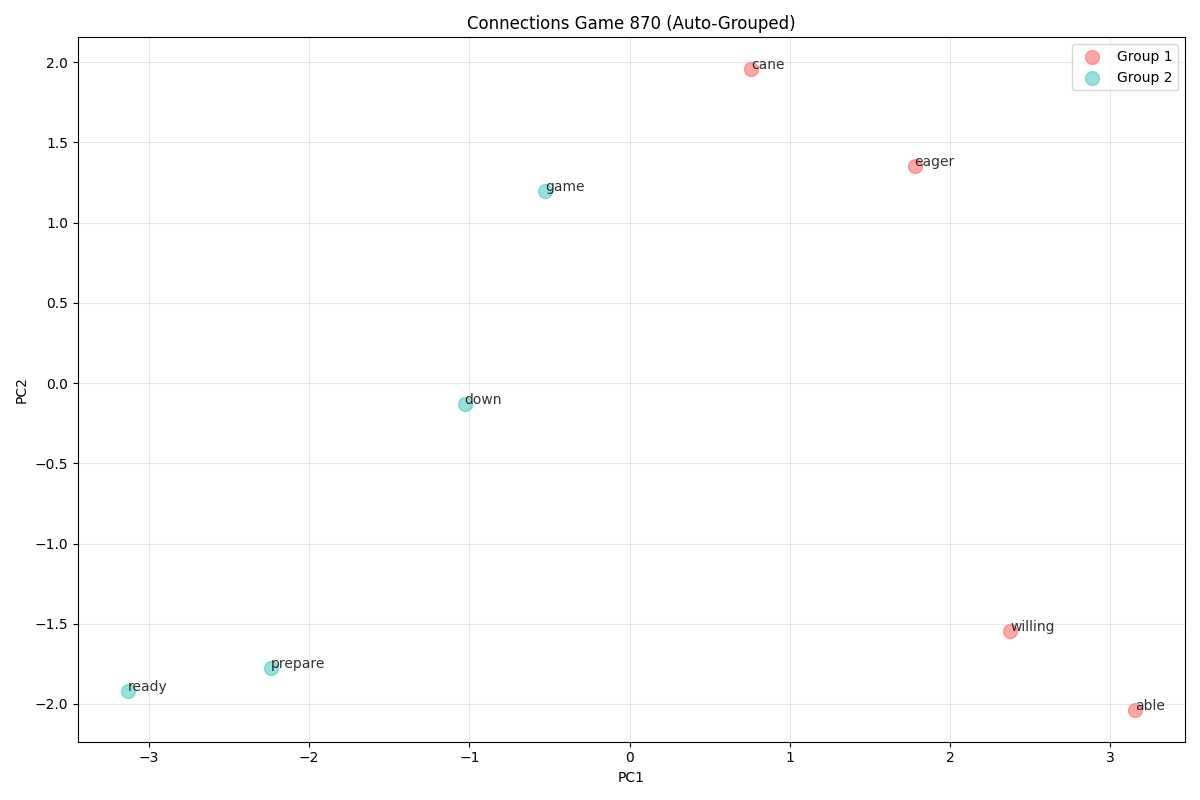
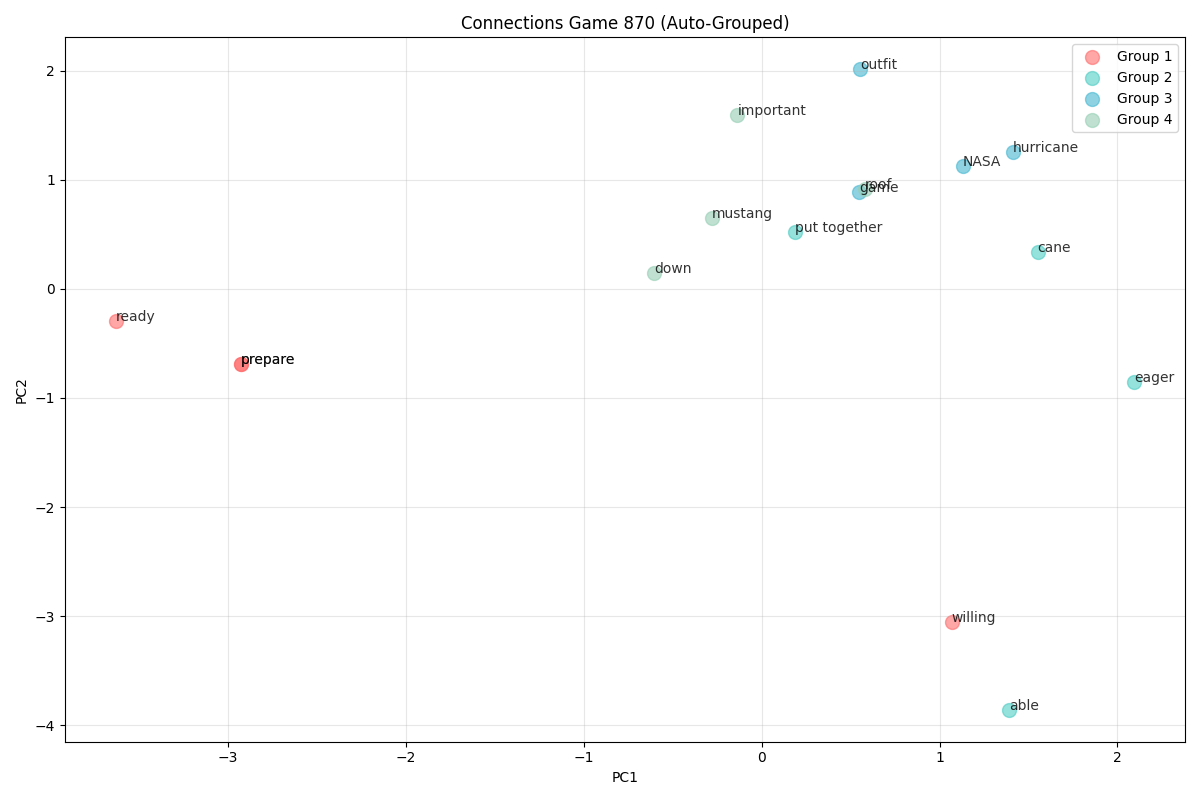
now have example

diff --git a/baselines/deepwalk.py b/baselines/deepwalk.py
@@ -121,23 +121,25 @@ def train_node2vec(
     return embedding, word2idx, idx2word, idx2embedding, model
 
 
-def plot_embeddings(embedding, words, word2idx, idx2word, title="Word Embeddings", groups=None):
+# def plot_embeddings(embedding, words, word2idx, idx2word, title="Word Embeddings", groups=None):
+def plot_embeddings(embedding, indices, valid_words, title="Word Embeddings", groups=None):
     """Plot word embeddings in 2D using PCA."""
     # Filter valid words
-    print("words:")
-    print(words)
+    # print("words:")
+    # print(words)
     # TODO remove
     # normalise words to get more matches
-    for i, word in enumerate(words):
-        words[i] = word.lower()
-    indices = [word2idx[w] for w in words if w in word2idx]
-    valid_words = [w for w in words if w in word2idx]
-    print("valid_words:")
-    print(valid_words)
+    # for i, word in enumerate(words):
+    #     words[i] = word.lower()
 
-    if not valid_words:
-        print("No valid words found!")
-        return
+    # indices = [word2idx[w] for w in words if w in word2idx]
+    # valid_words = [w for w in words if w in word2idx]
+    # print("valid_words:")
+    # print(valid_words)
+
+    # if not valid_words:
+    #     print("No valid words found!")
+    #     return
 
     # Apply PCA
     pca_result = PCA(n_components=2).fit_transform(embedding[indices])
@@ -221,11 +223,19 @@ def test_with_connections():
     words = connections_data["all_words"]
     
     # Get embeddings for valid words
-    valid_words = [w.lower() for w in words if w.lower() in word2idx]
-    valid_indices = [word2idx[w] for w in valid_words]
+    # valid_words = [w.lower() for w in words if w.lower() in word2idx]
+    valid_words = []
+    # valid_indices = [word2idx[w] for w in valid_words]
+    valid_indices = []
     
-    for nonword in set(words) - set(valid_words):
-        current_embedding = ft.get_word_vector(nonword)
+    for word in words:
+        word = word.lower()
+        if word in word2idx:
+            valid_words.append(word)
+            valid_indices.append(word2idx[word])
+            continue
+
+        current_embedding = ft.get_word_vector(word)
         
         # f*ck it do it myself
         myitem = next(iter(embeddings_fasttext.items()))
@@ -240,9 +250,14 @@ def test_with_connections():
                 closest_embedding = ft_embedding
                 closest_embedding_index = idx
 
+        prev_word = word
+        word = idx2word[closest_embedding_index]
+        print(f"Unseen word {prev_word} replaced by {word}")
         valid_indices.append(closest_embedding_index)
-        print(f"Unseen word {nonword} replaced by {idx2word[closest_embedding_index]}")
+        valid_words.append(word)
 
+
+    # put all words back
     valid_embeddings = embedding[valid_indices]
     
     # Calculate pairwise similarities
@@ -297,7 +312,7 @@ def test_with_connections():
         available_indices -= set(best_group)
     
     # Plot with the automatically generated groups
-    plot_embeddings(embedding, words, word2idx, idx2word, 
+    plot_embeddings(embedding, valid_indices, valid_words=valid_words, 
                    title="Connections Game 870 (Auto-Grouped)", 
                    groups=groups)
     
